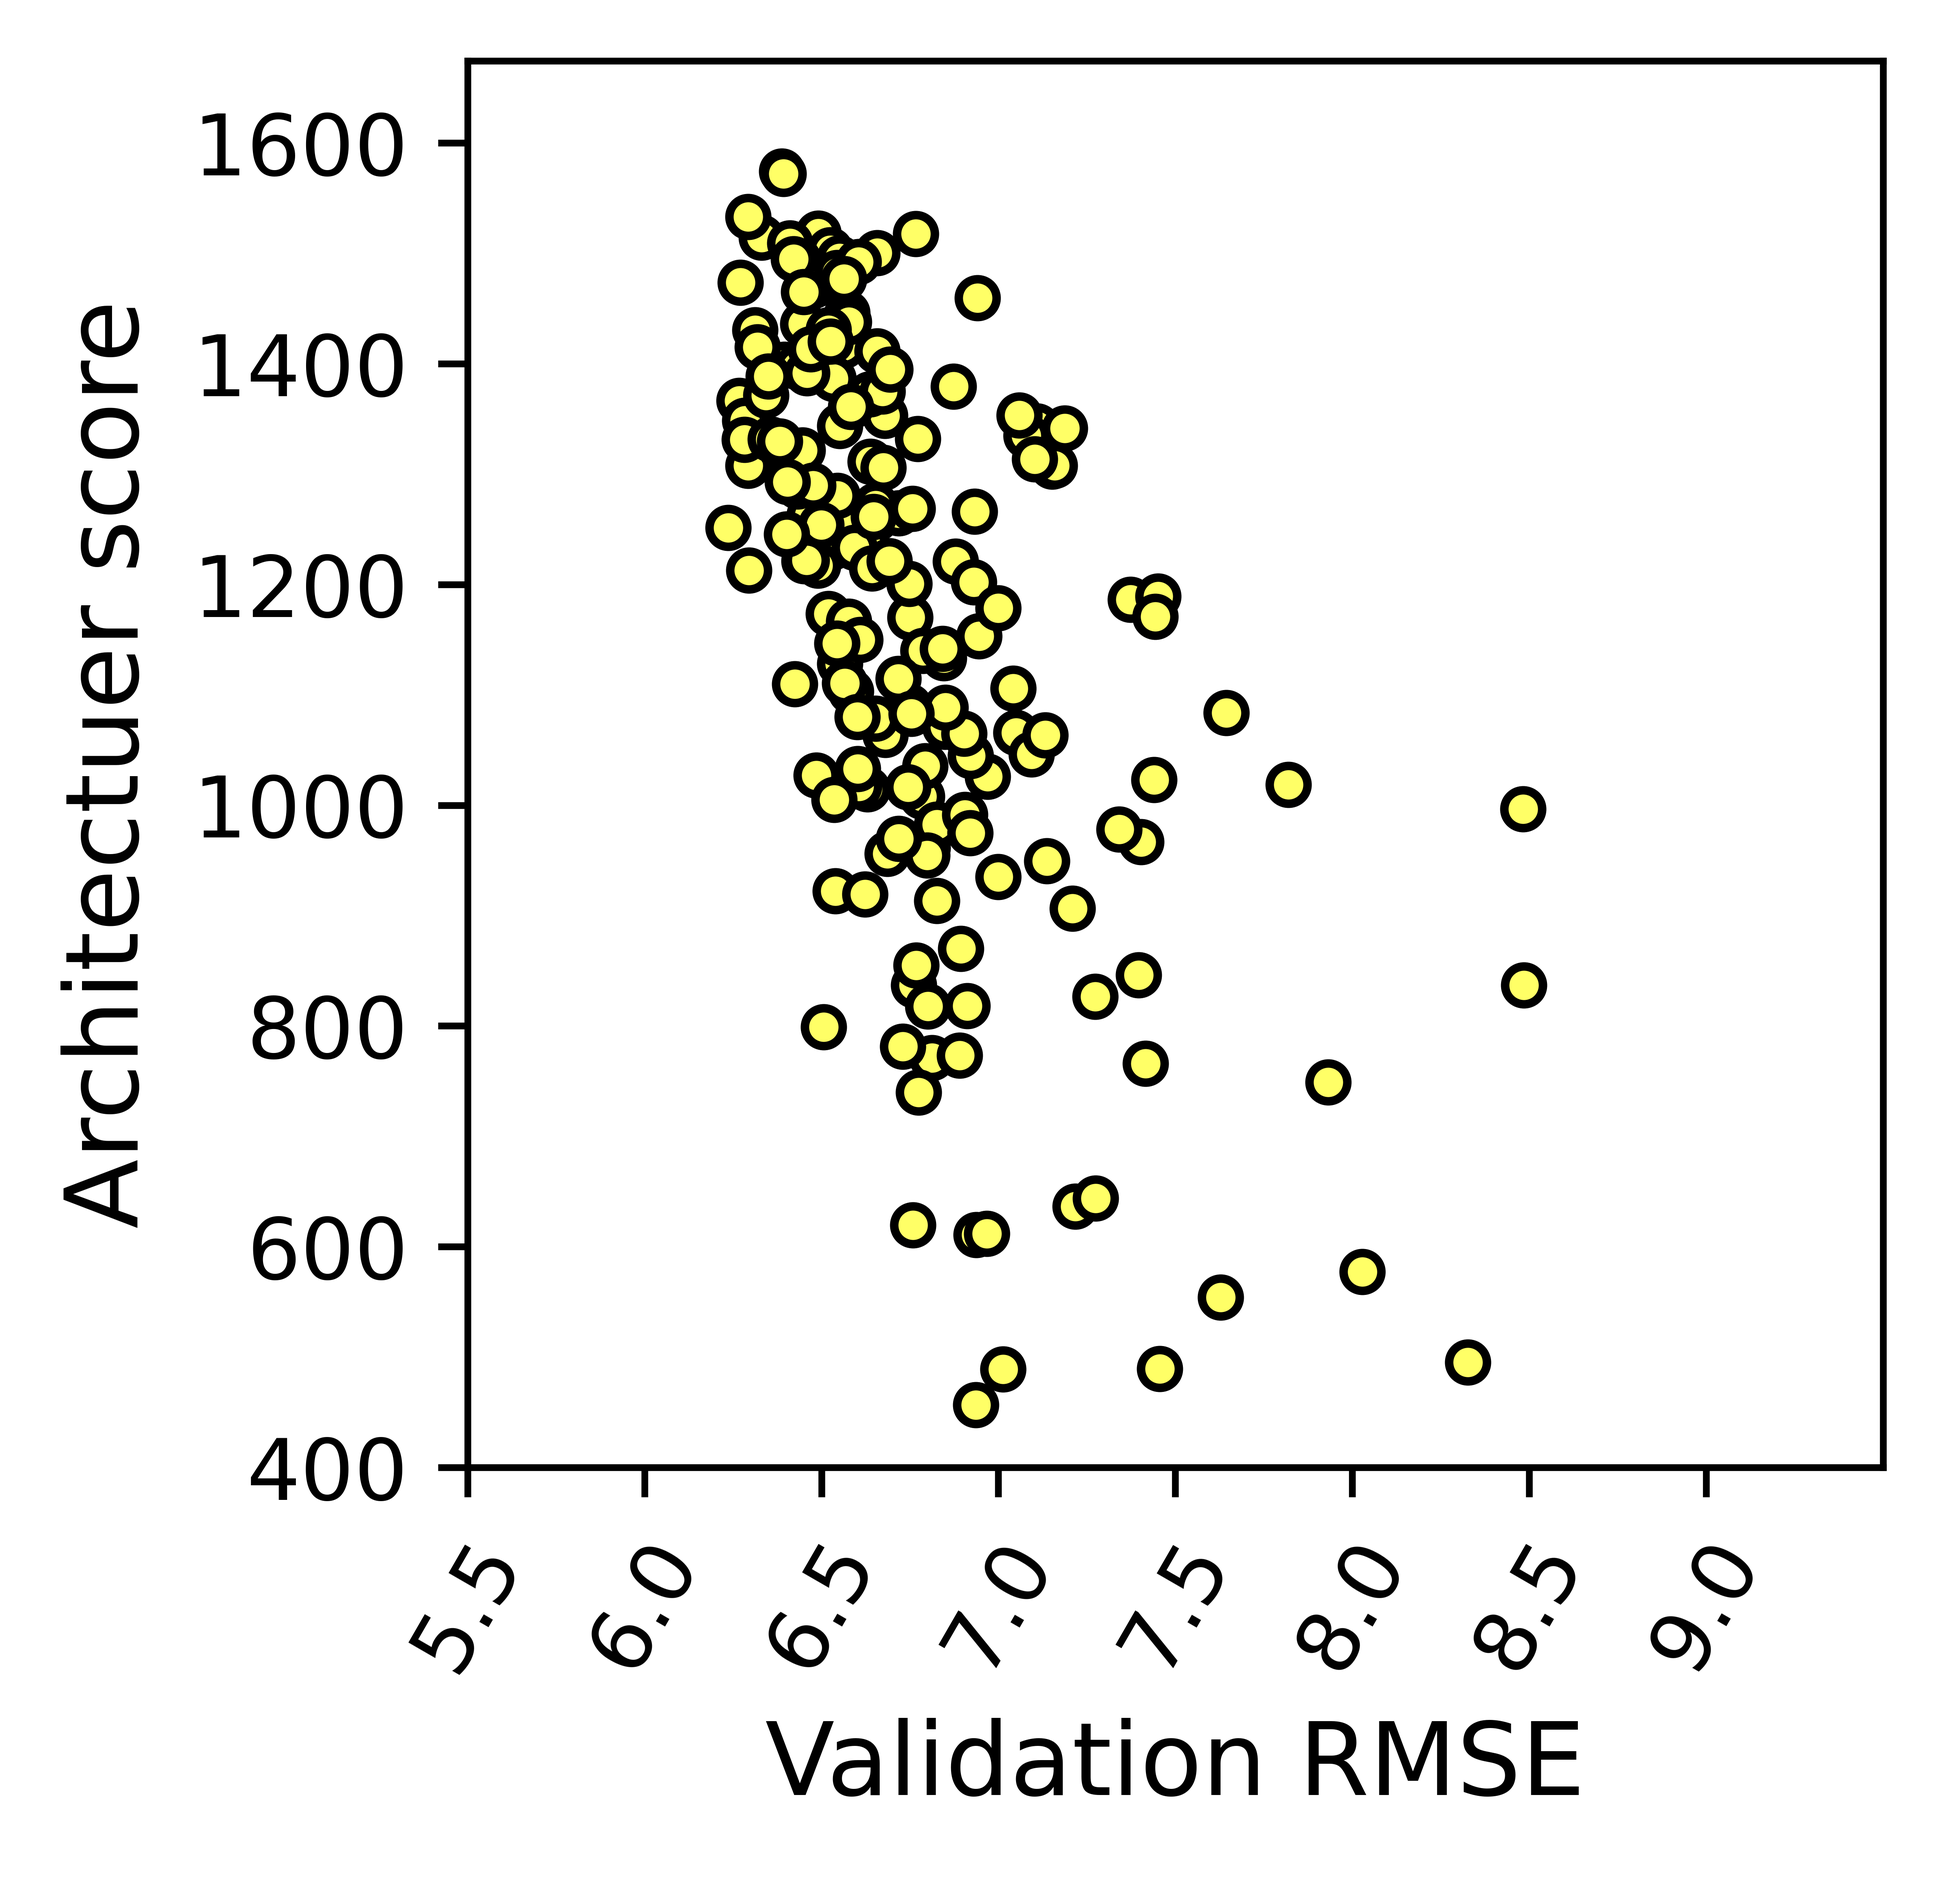
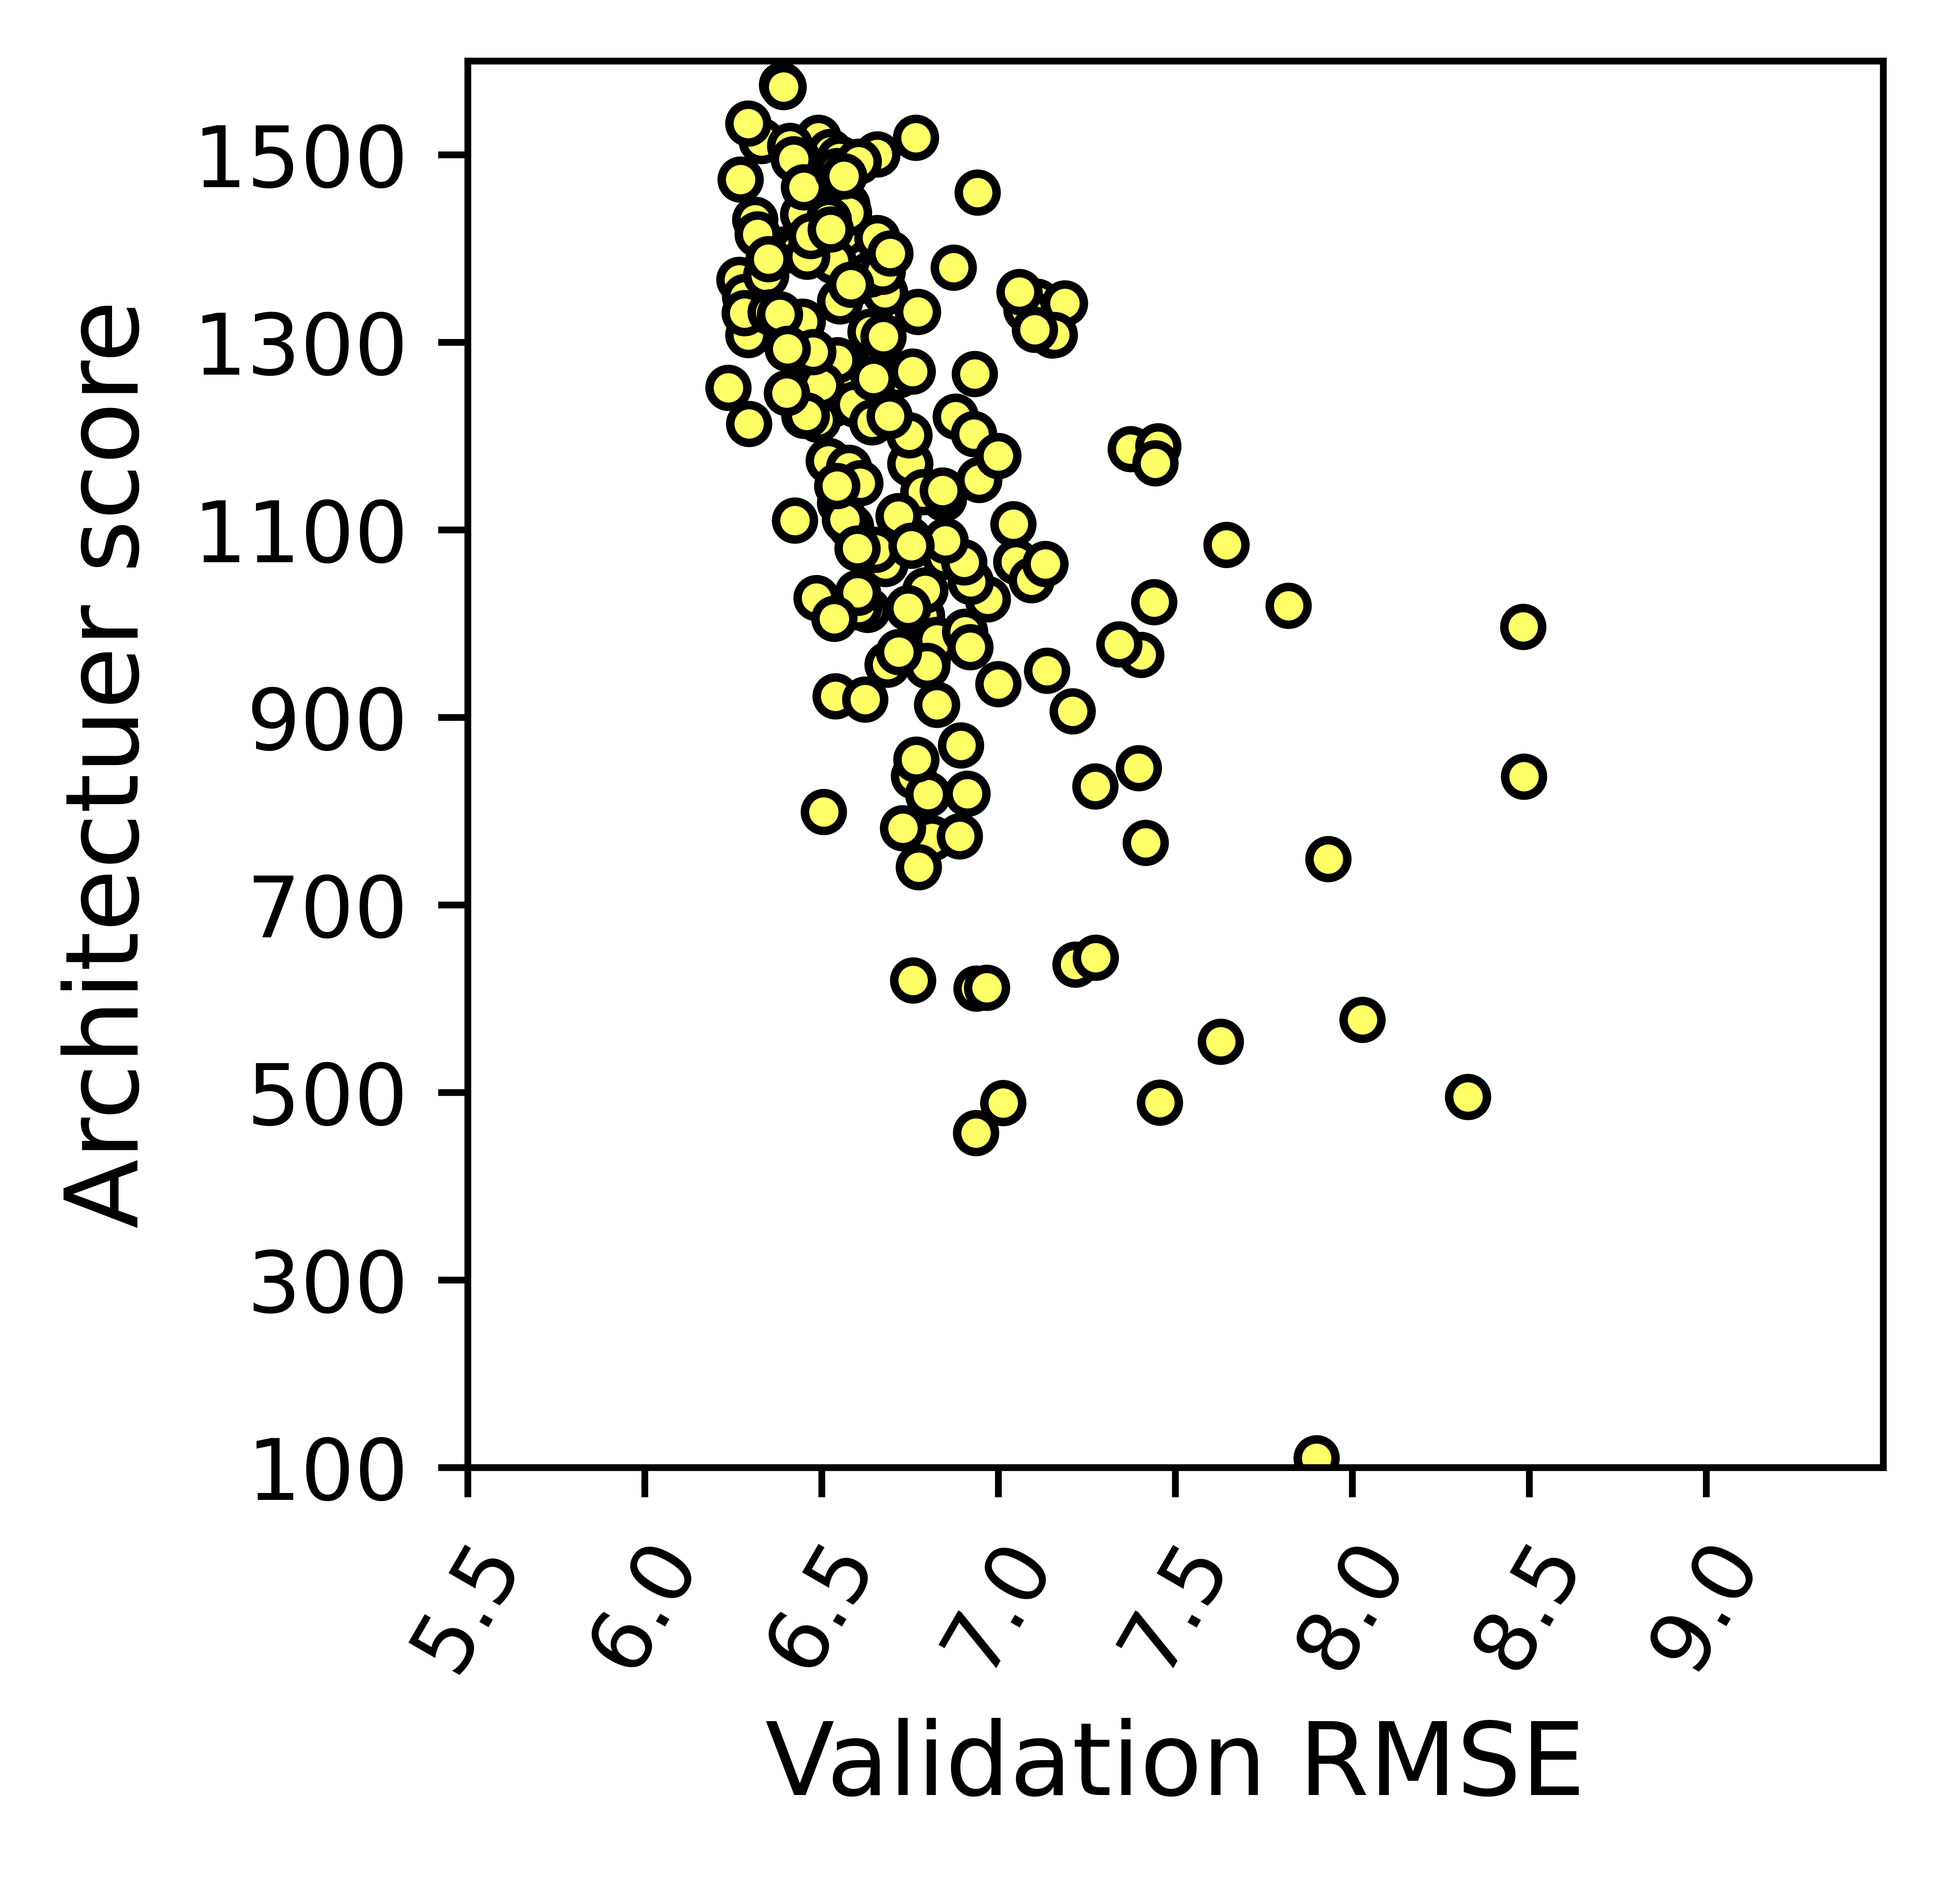
test

diff --git a/plot_rmse_score.py b/plot_rmse_score.py
@@ -81,22 +81,19 @@ def main():
     bs = args.bs
 
     # Load csv file
-    new_file_path = os.path.join(directory_path, 'mute_log_%s_%s_soo_%s_score.csv' %(pop,gen,trial))
-    # new_file_path = os.path.join(directory_path, 'mute_log_%s_%s_%s_soo_%s_score.csv' %(pop,gen,bs,trial))
+    # new_file_path = os.path.join(directory_path, 'mute_log_%s_%s_soo_%s_score.csv' %(pop,gen,trial))
+    new_file_path = os.path.join(directory_path, 'mute_log_%s_%s_%s_soo_%s_score.csv' %(pop,gen,bs,trial))
     mute_log_df = pd.read_csv(new_file_path)
 
+    y_sp = 300
+    ref_avg = 20
 ####################################
     # Draw scatter plot
     fig = matplotlib.figure.Figure(figsize=(3, 3))
     agg.FigureCanvasAgg(fig)
     cmap = get_cmap(10)
     ax = fig.add_subplot(1, 1, 1)
-
-    # ax.scatter(mute_log_df['fitness_1'], mute_log_df['test_rmse'], facecolor=(1.0, 1.0, 0.4), edgecolors=(0.0, 0.0, 0.0), zorder=1,
-    #            c=cmap(0), s=20 )
-
-    ax.scatter(mute_log_df['fitness_1'], mute_log_df['archt_scores'], facecolor=(1.0, 1.0, 0.4),
-               edgecolors=(0.0, 0.0, 0.0), zorder=1, s=20 )
+    # Draw scatter plot
 
     x_min = int(min(mute_log_df['fitness_1'])) - 0.5
     x_max = int(max(mute_log_df['fitness_1'])) + 0.5
@@ -106,13 +103,23 @@ def main():
     # print (sc)
     # print (type(sc))
     # print ("np.min(sc[np.nonzero(sc)])", np.min(sc[np.nonzero(sc)]))
-    # y_min = np.min(sc[np.nonzero(sc)]) - 100
-
-    y_min = 400
-    y_max = max(mute_log_df['archt_scores']) + 100
-    y_sp = 100
-
+    if np.min(sc[np.nonzero(sc)]) - 100 <= 100:
+        y_min = 100
+    else:
+        y_min = np.min(sc[np.nonzero(sc)]) - 100
+    # y_min = 400
+    y_max = roundup(max(mute_log_df['archt_scores']))
+    # y_sp = 100
+    # y_sp = (y_max - y_min)/20
     x_range = np.arange(x_min, x_max, 2 * x_sp)
+
+    # ax.scatter(mute_log_df['fitness_1'], mute_log_df['test_rmse'], facecolor=(1.0, 1.0, 0.4), edgecolors=(0.0, 0.0, 0.0), zorder=1,
+    #            c=cmap(0), s=20 )
+
+    ax.scatter(mute_log_df['fitness_1'], mute_log_df['archt_scores'], facecolor=(1.0, 1.0, 0.4),
+               edgecolors=(0.0, 0.0, 0.0), zorder=1, s=20 )
+
+
     ax.set_xticks(x_range)
     ax.set_xticklabels(x_range, rotation=60)
     ax.set_yticks(np.arange(y_min, y_max, 2 * y_sp))
@@ -138,16 +145,20 @@ def main():
     ax = fig.add_subplot(1, 1, 1)
     x_min = int(min(mute_log_df['fitness_1'])) - 0.5
     x_max = int(max(mute_log_df['fitness_1'])) + 0.5
-    x_sp = 0.25
+    # x_sp = 0.25
     # y_min = min(mute_log_df['archt_scores']) - 100
     sc = mute_log_df['archt_scores'].values
     # print (sc)
     # print (type(sc))
     # print ("np.min(sc[np.nonzero(sc)])", np.min(sc[np.nonzero(sc)]))
-    # y_min = np.min(sc[np.nonzero(sc)]) - 100
-    y_min = 400
-    y_max = max(mute_log_df['archt_scores']) + 100
-    y_sp = 100
+    if np.min(sc[np.nonzero(sc)]) - 100 <= 100:
+        y_min = 100
+    else:
+        y_min = np.min(sc[np.nonzero(sc)]) - 100
+    # y_min = 400
+    y_max = roundup(max(mute_log_df['archt_scores']))
+    # y_sp = y_sp
+    # y_sp = (y_max - y_min)/20
     x_range = np.arange(x_min, x_max, 2 * x_sp)
 
     # ax.scatter(mute_log_df['fitness_1'], mute_log_df['test_rmse'], facecolor=(1.0, 1.0, 0.4), edgecolors=(0.0, 0.0, 0.0), zorder=1,
@@ -156,8 +167,8 @@ def main():
     start_value = roundup(max(mute_log_df['archt_scores']))
     mean_scores = []
     mean_vals = []
-    ref_avg = 10
-    interval = 100
+    # ref_avg = ref_avg
+    interval = y_sp
     for n in range(ref_avg):
         selected_df = mute_log_df.loc[(mute_log_df['archt_scores'] < start_value - n*interval) &
                         (mute_log_df['archt_scores'] > start_value - (n+1)*interval)]

diff --git a/val_test_acc.py b/val_test_acc.py
@@ -354,6 +354,9 @@ def main():
 
         # archt_scores.append(archt_score)
 
+        print ("ind['fitness_1']: ", ind['fitness_1'])
+        print ("rms: ", rms)
+
 
 
 ########
